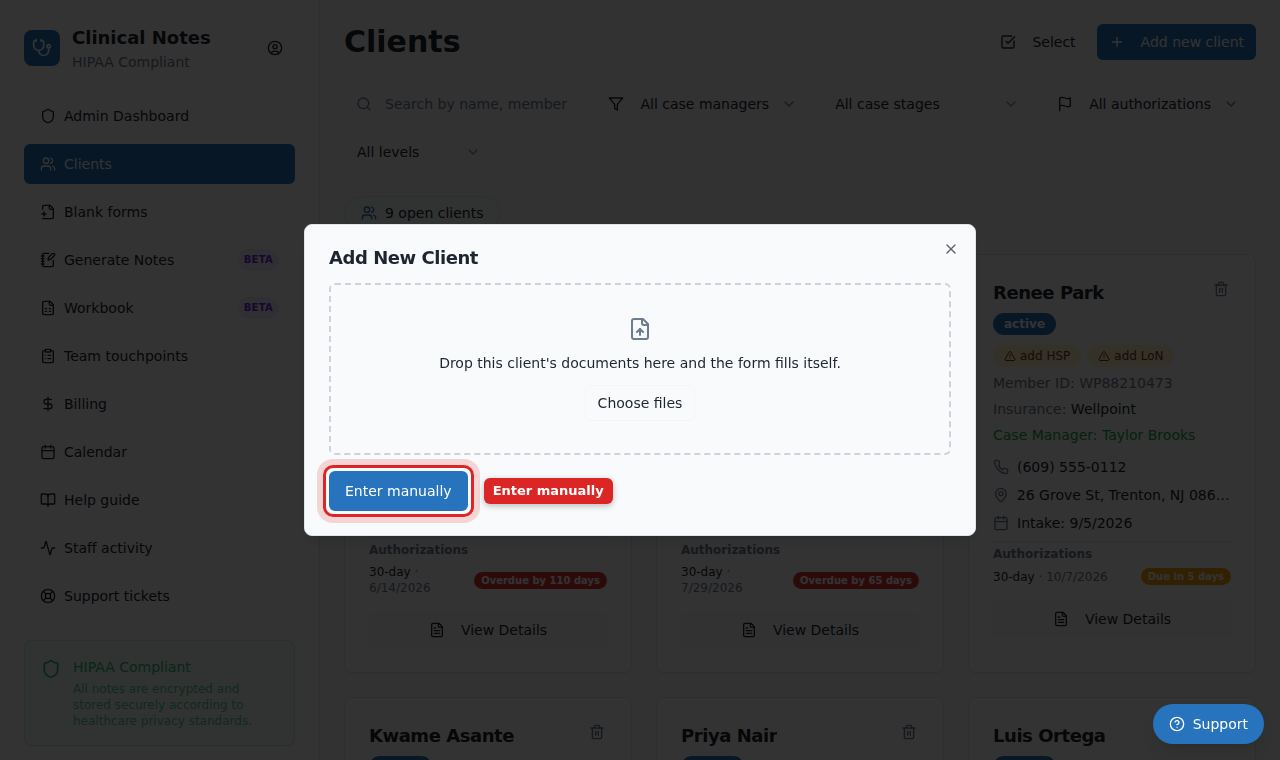
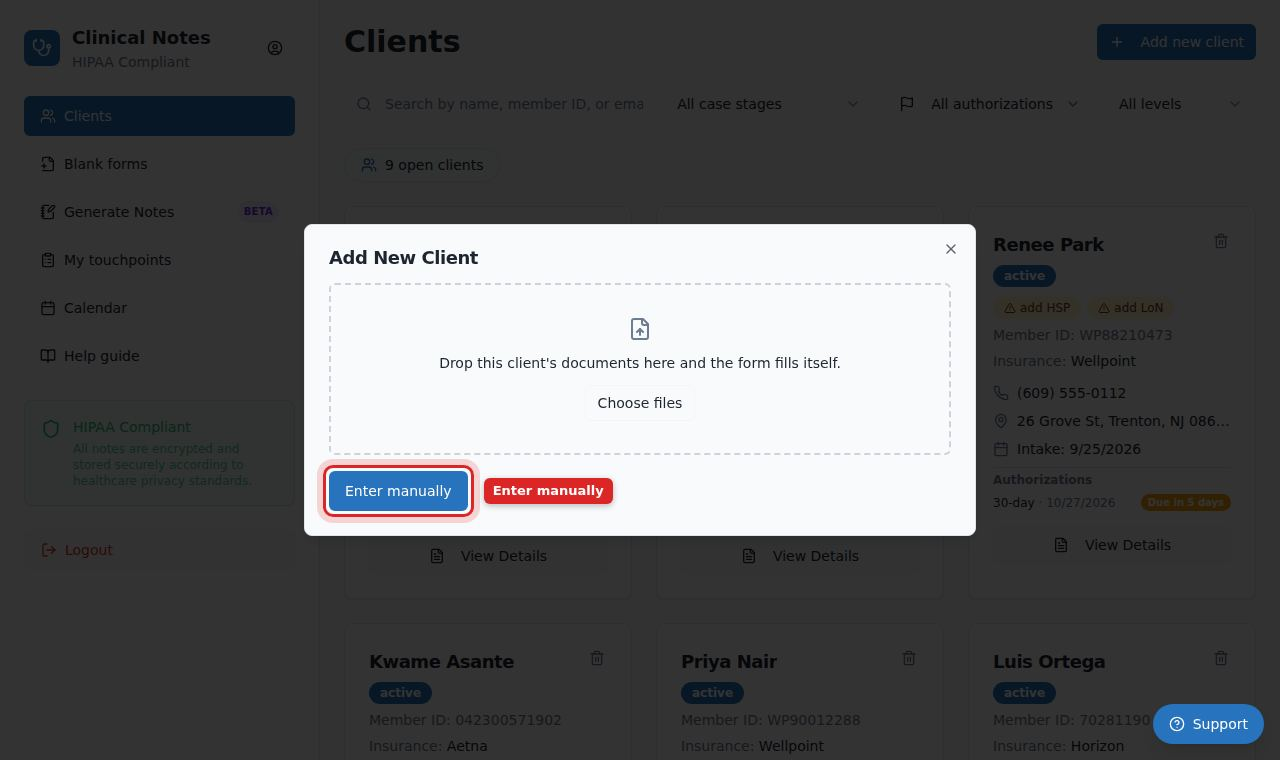
Help: Add a client is for everyone
Claude-Session: https://claude.ai/code/session_012TZTkqWFZbcufo1uEC7hhK

diff --git a/src/lib/helpGuides.ts b/src/lib/helpGuides.ts
@@ -100,10 +100,11 @@ export const GUIDES: Guide[] = [
     ],
   },
   {
-    id: 'add-client', section: 'Clients', title: 'Add a client', audience: 'admins', minutes: 3,
+    id: 'add-client', section: 'Clients', title: 'Add a client', audience: 'everyone', minutes: 3,
     steps: [
       s('Select Add new client', 'On Clients, select Add new client.'),
       s('Add the details', 'Choose the client’s intake file to fill in their details, or select Enter manually.'),
+      s('Select Add Client', 'A client you add is assigned to you. Admins choose the case manager under Assigned Staff, and can reassign a client later.'),
     ],
   },
 
